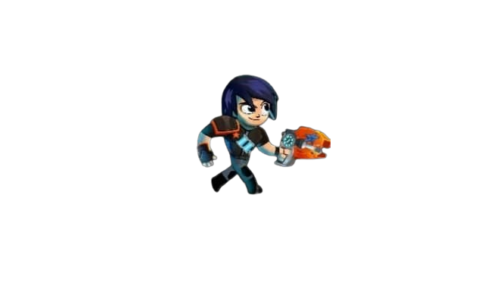
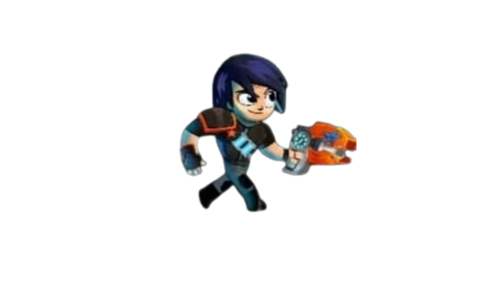
add new lines to character movement.py

Changed region(s): [[0.36, 0.1708, 0.72, 0.7687]]

diff --git a/character movement.py b/character movement.py
@@ -13,18 +13,18 @@ pygame.display.set_caption("Character Movement")
 background_image = pygame.image.load("background.png")
 
 # Load standing image
-character_standing = pygame.image.load("character_standing.png")
+character_standing = pygame.image.load("character/character_standing.png")
 
 # Load right key animation frames from PNG
-gif_forward = ["GameWalk1.png", "GameWalk2.png",]  # List of PNG files
+gif_forward = ["character/GameWalk1.png", "character/GameWalk2.png",]  # List of PNG files
 video_frames_forward = [pygame.image.load(file).convert_alpha() for file in gif_forward]
 
 # Load left key animation frames from PNG
-gif_backward = ["GameWalkLeft1.png", "GameWalkLeft2.png",]  # List of PNG files
+gif_backward = ["character/GameWalkLeft1.png", "character/GameWalkLeft2.png",]  # List of PNG files
 video_frames_backward = [pygame.image.load(file).convert_alpha() for file in gif_backward]
 
 # Character properties
-character_rect = character_standing.get_rect(bottomleft=(0, screen_height - 50))  # Start from the far left bottom
+character_rect = character_standing.get_rect(bottomleft=(400, 660))  # Set initial position to (400, 100)
 velocity = 5
 frame_index_forward = 0
 frame_index_backward = 0
